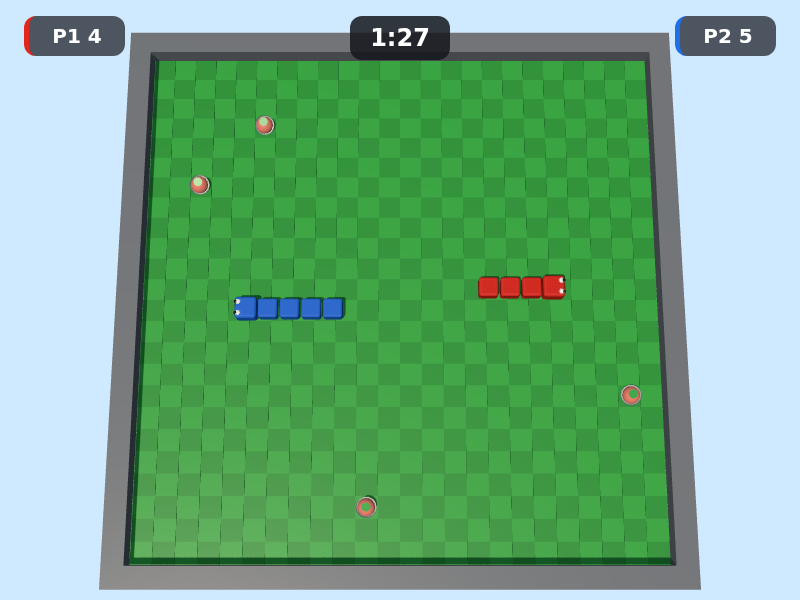
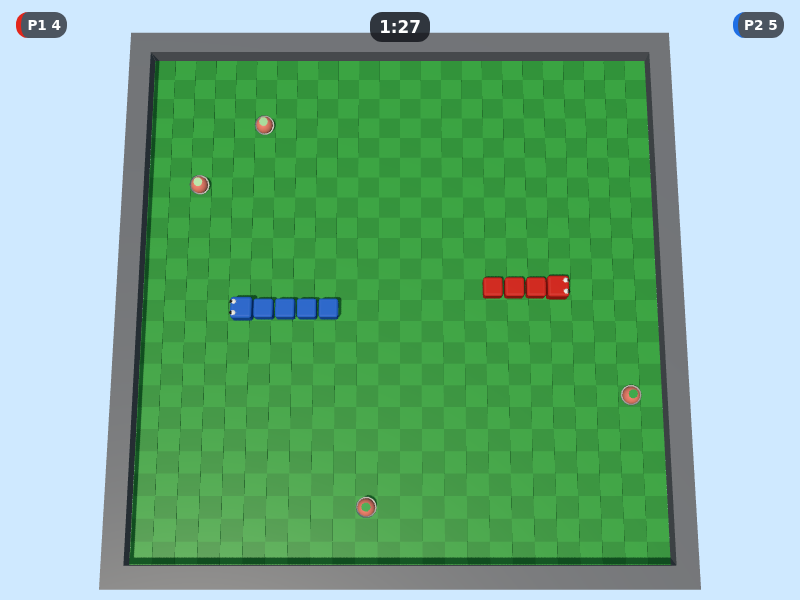
I16 closeout: regenerate the viewport matrix after the HUD fix
KI-16-01 measured the game before KI-16-02 and KI-16-03 changed it, so the
committed matrix still reported three defects that no longer exist: a
player pill overlapping the arena at 1024x768 (80 px2), 800x600 (742 px2)
and 640x480 (1507 px2). All three now measure 0.

Nothing else in the document moved. The framing bounds, the floor
near-edge NDC y, the canvas backing sizes and the banner-vs-pill columns
are identical at every viewport, which is the evidence for the sprint's
own "the 16:9 picture is unchanged" exit criterion: the two tickets that
followed the measurement changed the HUD and changed nothing about the
framing.

Four screenshots differ; three of them (1024x768, 800x600, 640x480) show
the real HUD change, and the fourth is 1280x720 moving for the reason
filed as #272 - the screenshots are not reproducible run to run, which is
why the numbers rather than the pixels are what this document is trusted
for.

Claude-Session: https://claude.ai/code/session_01P6y1yYosv6KgWzSS2rjp9L

diff --git a/docs/qa/playtests/viewports.md b/docs/qa/playtests/viewports.md
@@ -67,7 +67,7 @@ are where a finding here turns into a fix.
 
 - **Arena framing is correct at every measured viewport.** The floor rectangle plus one wall thickness of camera margin (`DESIGN-DECISIONS §1 row 24`'s own framing target) and the wall ring's own real geometry both stay inside the frame at all 7 viewports — nothing is cut off, at any aspect ratio in the list.
 - **The near-edge fit has zero slack.** The floor-plus-margin box's near edge (the corner closest to the camera) lands on the frustum boundary to within one floating-point ULP at every viewport — the largest gap measured is 2.22e-16 of the NDC range, which is float noise, not a real margin. `render/camera.js`'s vertical-FOV constraint binds the camera distance whenever the viewport's aspect ratio exceeds roughly 1.023 (`1 / sin(78°)`, since the arena is square) — every viewport in this list is 4:3 (1.333) or wider, so the height constraint is what's tight everywhere measured, and the camera distance the framing solve produces is therefore identical across every landscape viewport here (see the matrix below — the same distance would show up as the same near-edge NDC y, which it does).
-- **HUD pills vs. the arena:** at least one player pill overlaps the arena at 3 of 7 viewports — 1024x768, 800x600, 640x480. KI-16-03's job, not this ticket's.
+- **HUD pills vs. the arena:** neither player pill overlaps the arena's own projected bounds at any measured viewport.
 - **Laser banner vs. the pills:** the "LASERS CLOSING!" banner does not overlap either player pill at any measured viewport.
 
 ## The matrix
@@ -75,12 +75,12 @@ are where a finding here turns into a fix.
 | Viewport | Why | Canvas backing size | Canvas CSS box | DPR | Whole arena on screen (NDC bounds) | Floor near-edge NDC y | P1 pill overlaps arena | P2 pill overlaps arena | Banner overlaps a pill | Screenshot |
 |---|---|---|---|---|---|---|---|---|---|---|
 | 1280x720 | the confirmed picture; every existing baseline | 1280×720 | 1280×720 | 1 | yes (x -0.575…0.575, y -1.000…0.891) | -1.0000000000000002 | no (0 px²) | no (0 px²) | no (P1 0 px², P2 0 px²) | [screenshot](viewports/1280x720.png) |
-| 1024x768 | 4:3 laptop | 1024×768 | 1024×768 | 1 | yes (x -0.767…0.767, y -1.000…0.891) | -1.0000000000000002 | yes (80 px²) | yes (80 px²) | no (P1 0 px², P2 0 px²) | [screenshot](viewports/1024x768.png) |
-| 800x600 | the school laptop | 800×600 | 800×600 | 1 | yes (x -0.767…0.767, y -1.000…0.891) | -1.0000000000000002 | yes (742 px²) | yes (742 px²) | no (P1 0 px², P2 0 px²) | [screenshot](viewports/800x600.png) |
+| 1024x768 | 4:3 laptop | 1024×768 | 1024×768 | 1 | yes (x -0.767…0.767, y -1.000…0.891) | -1.0000000000000002 | no (0 px²) | no (0 px²) | no (P1 0 px², P2 0 px²) | [screenshot](viewports/1024x768.png) |
+| 800x600 | the school laptop | 800×600 | 800×600 | 1 | yes (x -0.767…0.767, y -1.000…0.891) | -1.0000000000000002 | no (0 px²) | no (0 px²) | no (P1 0 px², P2 0 px²) | [screenshot](viewports/800x600.png) |
 | 1920x1080 | ARCHITECTURE §12's own resolution | 1920×1080 | 1920×1080 | 1 | yes (x -0.575…0.575, y -1.000…0.891) | -1.0000000000000002 | no (0 px²) | no (0 px²) | no (P1 0 px², P2 0 px²) | [screenshot](viewports/1920x1080.png) |
 | 2560x1080 | ultrawide | 2560×1080 | 2560×1080 | 1 | yes (x -0.431…0.431, y -1.000…0.891) | -1.0000000000000002 | no (0 px²) | no (0 px²) | no (P1 0 px², P2 0 px²) | [screenshot](viewports/2560x1080.png) |
 | 1280x720@2 | high-DPI | 2560×1440 | 1280×720 | 2 | yes (x -0.575…0.575, y -1.000…0.891) | -1.0000000000000002 | no (0 px²) | no (0 px²) | no (P1 0 px², P2 0 px²) | [screenshot](viewports/1280x720@2.png) |
-| 640x480 | the stated minimum | 640×480 | 640×480 | 1 | yes (x -0.767…0.767, y -1.000…0.891) | -1.0000000000000002 | yes (1507 px²) | yes (1507 px²) | no (P1 0 px², P2 0 px²) | [screenshot](viewports/640x480.png) |
+| 640x480 | the stated minimum | 640×480 | 640×480 | 1 | yes (x -0.767…0.767, y -1.000…0.891) | -1.0000000000000002 | no (0 px²) | no (0 px²) | no (P1 0 px², P2 0 px²) | [screenshot](viewports/640x480.png) |
 
 **Floor near-edge NDC y** is the floor-plus-margin box's own near-edge bound (`floorNdcBounds.minY`), at full float precision — this is the number "What this found" calls a zero-slack fit: it sits a single floating-point ULP past `-1.0`, identically at every viewport, because the vertical framing constraint binds regardless of aspect ratio (see below). A row marked *(… outside)* names which of the two groups — the floor-plus-margin framing box, or the wall ring's own real geometry — actually left the frame; none does at any viewport measured here.
 
@@ -206,12 +206,12 @@ committed document against on every `npm run test:unit`.
       "canvasCssHeight": 768,
       "devicePixelRatio": 1,
       "p1OverlapsArena": {
-        "overlaps": true,
-        "areaPx2": 79.64686282539589
+        "overlaps": false,
+        "areaPx2": 0
       },
       "p2OverlapsArena": {
-        "overlaps": true,
-        "areaPx2": 79.86993675043712
+        "overlaps": false,
+        "areaPx2": 0
       },
       "laserWarningReached": true,
       "bannerOverlapsP1": {
@@ -257,12 +257,12 @@ committed document against on every `npm run test:unit`.
       "canvasCssHeight": 600,
       "devicePixelRatio": 1,
       "p1OverlapsArena": {
-        "overlaps": true,
-        "areaPx2": 741.9481551949957
+        "overlaps": false,
+        "areaPx2": 0
       },
       "p2OverlapsArena": {
-        "overlaps": true,
-        "areaPx2": 742.3138379489349
+        "overlaps": false,
+        "areaPx2": 0
       },
       "laserWarningReached": true,
       "bannerOverlapsP1": {
@@ -461,12 +461,12 @@ committed document against on every `npm run test:unit`.
       "canvasCssHeight": 480,
       "devicePixelRatio": 1,
       "p1OverlapsArena": {
-        "overlaps": true,
-        "areaPx2": 1506.9722633632282
+        "overlaps": false,
+        "areaPx2": 0
       },
       "p2OverlapsArena": {
-        "overlaps": true,
-        "areaPx2": 1507.4398095663798
+        "overlaps": false,
+        "areaPx2": 0
       },
       "laserWarningReached": true,
       "bannerOverlapsP1": {
